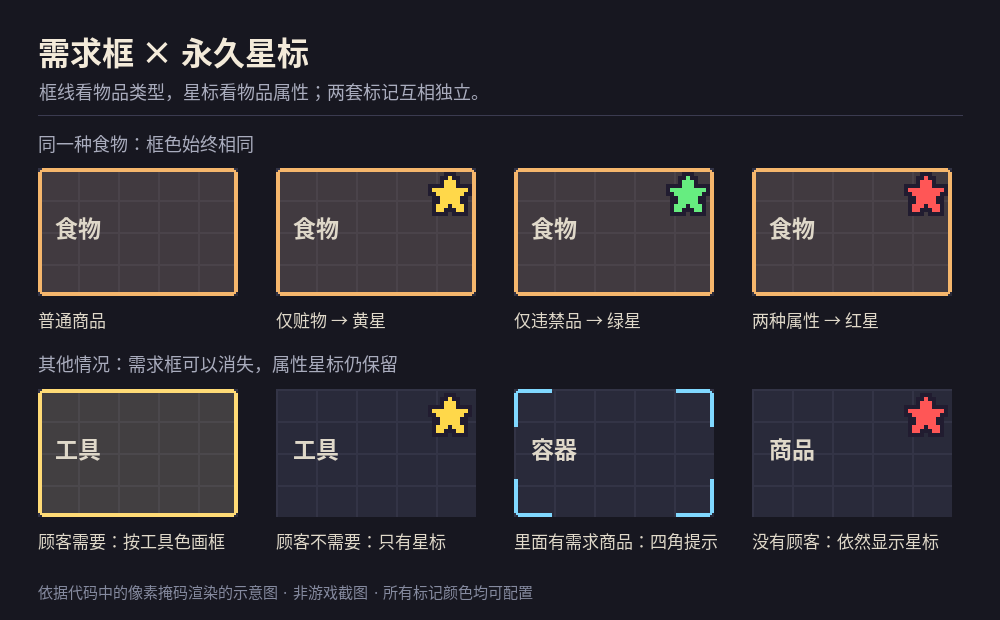
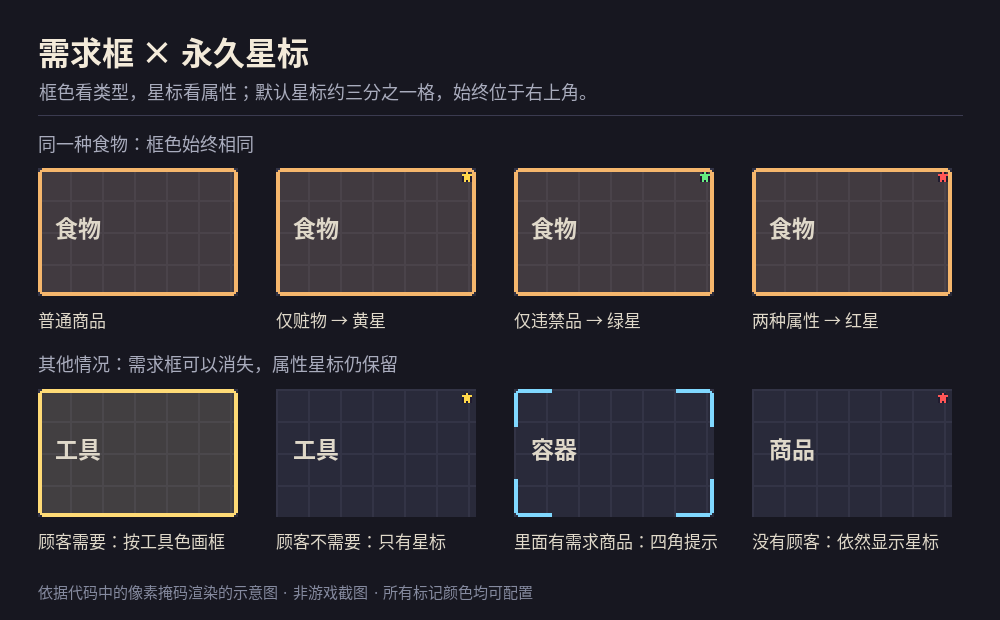
Fit risk stars to one grid cell and constrain priority settings width
Size badges at approximately one third of a grid cell by default, keep existing saved size levels, and fix the priority input's layout conflict with TMP. Add regression coverage and update configuration docs and the code-rendered preview for wrt.3.

diff --git a/tests/integration/IntegrationTest.cs b/tests/integration/IntegrationTest.cs
@@ -55,6 +55,15 @@ static class IntegrationTest
         mod.OnEnable();
         Check("constructor hooks installed", HarmonyLib.Harmony.Patches.ContainsKey(typeof(GameItemElement).GetConstructor(Type.EmptyTypes)));
         Check("no startup warnings", Debug.Warnings.Count == 0);
+        var priorityEntry = Entry<string>("typePriority");
+        var priorityField = ModConfigWindow.BuildTestEntry(ModHelper.Config, priorityEntry).root.GetComponent<LayoutElement>();
+        // TMP's content preference is thousands of pixels long. It must lose to the fixed-width entry.
+        float tmpPreference = MarkerSettings.DefaultPriority.Length * 8f;
+        float effectiveWidth = priorityField.layoutPriority > 1 ? priorityField.preferredWidth : Math.Max(tmpPreference, priorityField.preferredWidth);
+        Check("long priority input cannot squeeze its label", effectiveWidth == 245 && priorityField.minWidth == 245 && priorityField.flexibleWidth == 0);
+        Check("opening priority settings preserves the complete value", priorityEntry.Value == MarkerSettings.DefaultPriority);
+        Check("other settings keep native layout", ModConfigWindow.BuildTestEntry(ModHelper.Config, Entry<string>("stolenStarColor")).root.GetComponent<LayoutElement>().layoutPriority == 1);
+        Check("other mods keep native layout even with the same key", ModConfigWindow.BuildTestEntry(new ModConfig { ModId = "other_mod" }, priorityEntry).root.GetComponent<LayoutElement>().layoutPriority == 1);
 
         // None of these views is in a shop inventory. Even the shop singleton is absent.
         var locations = new[] { "warehouse", "front counter", "customer sale", "showcase", "container", "machine", "night scene", "other item UI" };
@@ -65,6 +74,16 @@ static class IntegrationTest
         for (int i = 0; i < locations.Length; i++)
             Check("global star with no shop/client: " + locations[i], Star(items[i]) != null && Star(items[i]).color == MarkerSettings.StolenColor);
         var target = items[0];
+        var starRect = (RectTransform)Child(target, "WRT.RiskStar").transform;
+        Check("existing default size level now fits one third of a 16px cell", starRect.sizeDelta.x == 5 && starRect.sizeDelta.y == 5);
+        Check("compact star keeps the top-right corner and configured inset", starRect.anchorMin.x == 1 && starRect.anchorMin.y == 1 && starRect.pivot.x == 1 && starRect.pivot.y == 1 && starRect.anchoredPosition.x == -2 && starRect.anchoredPosition.y == -2);
+        target.rectTransform.rect = new Rect(0,0,16,16); Step();
+        Check("smallest one-cell item keeps the compact star", starRect.sizeDelta.x == 5);
+        target.rectTransform.rect = new Rect(0,0,160,96); Step();
+        Check("large container does not enlarge the star", starRect.sizeDelta.x == 5);
+        UISettings.current.gridSize = 24; Step();
+        Check("star follows the game's grid size instead of item dimensions", starRect.sizeDelta.x == 8);
+        UISettings.current.gridSize = 16; Step();
         Check("badges do not intercept clicks", Star(target) != null && !Star(target).raycastTarget &&
             !Child(target, "WRT.RiskStar").transform.GetChild(0).gameObject.GetComponent<Image>().raycastTarget);
         Check("badges do not affect layout", Child(target, "WRT.RiskStar").GetComponent<LayoutElement>().ignoreLayout);
@@ -76,6 +95,7 @@ static class IntegrationTest
         dragged.ToggleFakeBackground(true, new Vector4(1f,1f,1f,0.5f)); Step();
         Check("whole-stack pickup hides the star at the old inventory position", Star(dragged) == null);
         Check("drag preview retains its own top-right star", DragStar(dragged) != null);
+        Check("drag preview uses the same compact dimensions", ((RectTransform)DragStar(dragged).transform.parent).sizeDelta.x == 5);
         Check("drag-preview star follows native opacity", DragStar(dragged).color.a == 0.5f);
         Check("drag-preview star does not intercept pointer input", !DragStar(dragged).raycastTarget);
         dragged.Contraband = true; dragged.Validate(); Step();
@@ -111,7 +131,7 @@ static class IntegrationTest
         Entry<string>("bothStarColor").Set("#12345680"); Step();
         Check("live-config star colour and opacity", Star(target).color == new Color(18 / 255f, 52 / 255f, 86 / 255f, 128 / 255f));
         Entry<int>("starPixelScale").Set(3); Step();
-        Check("live-config integer pixel scale", ((RectTransform)Child(target, "WRT.RiskStar").transform).sizeDelta.x == 33);
+        Check("live-config size level is relative to one cell", ((RectTransform)Child(target, "WRT.RiskStar").transform).sizeDelta.x == 8);
         Entry<bool>("riskStars").Set(false); Step();
         Check("dedicated stars setting hides badges", Star(target) == null);
         Entry<bool>("riskStars").Set(true); Step();
@@ -163,7 +183,7 @@ static class IntegrationTest
         Check("no unexpected runtime warnings", Debug.Warnings.Count == 0);
         if (args.Length == 2 && args[0] == "--preview-data")
         {
-            var data = new { side = Presentation.StarSide, fill = Array.ConvertAll(Presentation.StarMask(false), x => (int)x),
+            var data = new { side = Presentation.StarSide, grid = 16, starSize = Presentation.StarSize(16, 2), fill = Array.ConvertAll(Presentation.StarMask(false), x => (int)x),
                 edge = Array.ConvertAll(Presentation.StarMask(true), x => (int)x),
                 frame = Array.ConvertAll(Outline.Alpha(Shape.Full, 100, 64, new Style(Mark.Normal, false), 2, 3, true, 0), x => (int)x),
                 container = Array.ConvertAll(Outline.Alpha(Shape.Full, 100, 64, new Style(Mark.Normal, true), 2, 3, true, 0), x => (int)x) };

diff --git a/tests/integration/GameStubs.cs b/tests/integration/GameStubs.cs
@@ -153,7 +153,12 @@ namespace UnityEngine.UI
         public UnityEngine.Canvas canvas;
         public float pixelsPerUnitMultiplier;
     }
-    public class LayoutElement : UnityEngine.Component { public bool ignoreLayout; }
+    public class LayoutElement : UnityEngine.Component
+    {
+        public bool ignoreLayout;
+        public int layoutPriority = 1;
+        public float minWidth, preferredWidth, flexibleWidth;
+    }
 }
 namespace UnityEngine.SceneManagement
 {
@@ -174,17 +179,24 @@ namespace HarmonyLib
         public Harmony(string id) { }
         public void Patch(MethodBase target, HarmonyMethod prefix = null, HarmonyMethod postfix = null) { Patches[target] = postfix.Method; }
         public void UnpatchAll(string id) { Patches.Clear(); }
-        public static void Notify(MethodBase target, object instance)
+        public static void Notify(MethodBase target, object instance, params object[] originalArgs)
         {
             MethodInfo m; if (!Patches.TryGetValue(target, out m)) return;
             var args = new object[m.GetParameters().Length];
-            for (int i = 0; i < args.Length; i++) if (m.GetParameters()[i].Name == "__instance") args[i] = instance;
+            for (int i = 0; i < args.Length; i++)
+            {
+                string name = m.GetParameters()[i].Name;
+                int index;
+                if (name == "__instance") args[i] = instance;
+                else if (name.StartsWith("__") && int.TryParse(name.Substring(2), out index)) args[i] = originalArgs[index];
+            }
             m.Invoke(null, args);
         }
     }
 }
 
-public class ConfigEntry<T>
+public class ConfigEntry { public string Key; }
+public class ConfigEntry<T> : ConfigEntry
 {
     public T Value;
     public event Action<T> OnChanged;
@@ -192,13 +204,44 @@ public class ConfigEntry<T>
 }
 public class ModConfig
 {
+    public string ModId = DemandHighlight.DemandMod.ModId;
     public readonly Dictionary<string, object> Entries = new Dictionary<string, object>();
     public ConfigEntry<T> Define<T>(string key, T initial, string section, Func<string> label, Func<string> tooltip = null, bool restart = false)
     {
-        var entry = new ConfigEntry<T> { Value = initial }; Entries[key] = entry; return entry;
+        var entry = new ConfigEntry<T> { Key = key, Value = initial }; Entries[key] = entry; return entry;
     }
     public ConfigEntry<int> Define(string key, int initial, string section, Func<string> label, int min, int max,
         Func<string> tooltip = null, bool restart = false) { return Define<int>(key, initial, section, label, tooltip, restart); }
+}
+public class CustomUIElement
+{
+    public UnityEngine.GameObject root;
+    public CustomUIElement SetFixedWidth(float width)
+    {
+        var layout = root.GetComponent<UnityEngine.UI.LayoutElement>() ?? root.AddComponent<UnityEngine.UI.LayoutElement>();
+        layout.minWidth = layout.preferredWidth = width; layout.flexibleWidth = 0;
+        return this;
+    }
+}
+public class CustomUIBuilder { public CustomUIElement Last; }
+public static class ModConfigWindow
+{
+    // Mirrors the native BuildEntry's fixed width and the priority-1 conflict in the supplied game/TMP IL.
+    static void BuildEntry(CustomUIBuilder builder, ModConfig config, ConfigEntry entry)
+    {
+        builder.Last = new CustomUIElement { root = new UnityEngine.GameObject("input_" + entry.Key) };
+        builder.Last.SetFixedWidth(245);
+        HarmonyLib.Harmony.Notify(MethodBase.GetCurrentMethod(), null, builder, config, entry);
+    }
+    public static CustomUIElement BuildTestEntry(ModConfig config, ConfigEntry entry)
+    {
+        var builder = new CustomUIBuilder(); BuildEntry(builder, config, entry); return builder.Last;
+    }
+}
+public class UISettings : UnityEngine.MonoBehaviour
+{
+    public static UISettings current = new UISettings();
+    public int gridSize = 16;
 }
 public static class ModHelper
 {

diff --git a/src/DemandMod.cs b/src/DemandMod.cs
@@ -149,6 +149,9 @@ namespace DemandHighlight
                     else if (m.Name == "Hide") { h.Patch(m, null, window); hides++; }
                 }
                 if (shows == 0 || hides == 0) throw new MissingMethodException("PixelWindow.Show/Hide not found");
+                Patch(h, typeof(ModConfigWindow).GetMethod("BuildEntry", AnyStatic, null,
+                    new[] { typeof(CustomUIBuilder), typeof(ModConfig), typeof(ConfigEntry) }, null),
+                    "ModConfigWindow.BuildEntry", Hook("SettingsEntryBuilt"));
             }
             if (ticker == null)
             {
@@ -225,6 +228,17 @@ namespace DemandHighlight
         static void ElementCreated(GameItemElement __instance) { RiskStars.Track(__instance); }
         static void ElementDestroyed(GameItemElement __instance) { RiskStars.Remove(__instance); dirty = true; }
         static void ElementChanged(GameItemElement __instance) { RiskStars.Track(__instance); dirty = true; }
+
+        // Only our long priority field: TMP_InputField reports the entire value's preferred width at priority 1,
+        // tying the native fixed-width LayoutElement. Unity then takes the larger width and crushes the label.
+        static void SettingsEntryBuilt(CustomUIBuilder __0, ModConfig __1, ConfigEntry __2)
+        {
+            if (__1 == null || __1.ModId != modId || __2 == null || __2.Key != "typePriority") return;
+            var widget = __0.Last;
+            if (widget == null || widget.root == null) return;
+            widget.SetFixedWidth(245f);
+            widget.root.GetComponent<UnityEngine.UI.LayoutElement>().layoutPriority = 2;
+        }
 
         // An item changed: what is kept about it, and the insides of the containers above it, are stale.
         static void ItemChanged(GameItem __instance)

diff --git a/tools/preview/render.py b/tools/preview/render.py
@@ -18,7 +18,7 @@ if not Path(font).exists():
 def text(x,y,s,size=18,color='#DAD7E4',heavy=False):
     p.text((x,y),s,font=ImageFont.truetype(bold if heavy else font,size),fill=color)
 text(38,27,'需求框 × 永久星标',32,'#F3EAD9',True)
-text(39,78,'框线看物品类型，星标看物品属性；两套标记互相独立。',18,'#A9ACBD')
+text(39,78,'框色看类型，星标看属性；默认星标约三分之一格，始终位于右上角。',18,'#A9ACBD')
 p.line((38,115,962,115),fill='#3B3B50',width=1)
 xs=[38,276,514,752]
 def mask_layer(alpha,w,h,color,bottom_up=False):
@@ -30,12 +30,12 @@ def mask_layer(alpha,w,h,color,bottom_up=False):
 def card(x,y,title,kind,color=None,risk=None,container=False):
     # 100x64 logical UI units, at exactly 2x for a crisp, inspectable schematic.
     tile=Image.new('RGBA',(100,64),'#292A3A');q=ImageDraw.Draw(tile)
-    for xx in range(0,101,20):q.line((xx,0,xx,64),fill='#333446')
-    for yy in range(0,65,16):q.line((0,yy,100,yy),fill='#333446')
+    for xx in range(0,101,D['grid']):q.line((xx,0,xx,64),fill='#333446')
+    for yy in range(0,65,D['grid']):q.line((0,yy,100,yy),fill='#333446')
     if color:
         tile.alpha_composite(mask_layer(D['container'] if container else D['frame'],100,64,color,True))
     if risk:
-        side=D['side'];n=side*2
+        side=D['side'];n=D['starSize']
         for key,c in [('edge','#211C30'),('fill',risk)]:
             star=mask_layer(D[key],side,side,c).resize((n,n),Image.Resampling.NEAREST)
             tile.alpha_composite(star,(100-n-2,2))

diff --git a/src/MarkerSettings.cs b/src/MarkerSettings.cs
@@ -42,13 +42,15 @@ namespace DemandHighlight
             var enabled = config.Define("riskStars", true, "Risk stars / 属性星标", () => L("opt_stars"));
             StarsEnabled = enabled.Value;
             enabled.OnChanged += v => { StarsEnabled = v; Touch(); };
-            var scale = config.Define("starPixelScale", 2, "Risk stars / 属性星标", () => L("opt_star_scale"), 1, 4);
+            var scale = config.Define("starPixelScale", 2, "Risk stars / 属性星标", () => L("opt_star_scale"), 1, 4,
+                tooltip: () => L("opt_star_size_tip"));
             StarScale = scale.Value;
             scale.OnChanged += v => { StarScale = v; Touch(); };
             var inset = config.Define("starInset", 2, "Risk stars / 属性星标", () => L("opt_star_inset"), 0, 16);
             StarInset = inset.Value;
             inset.OnChanged += v => { StarInset = v; Touch(); };
-            var order = config.Define("typePriority", DefaultPriority, "Outline colors / 框线颜色", () => L("opt_type_priority"));
+            var order = config.Define("typePriority", DefaultPriority, "Outline colors / 框线颜色", () => L("opt_type_priority"),
+                tooltip: () => L("opt_type_priority_tip"));
             ReadPriority(order.Value);
             order.OnChanged += v => { ReadPriority(v); Touch(); };
             foreach (var type in Panel.KnownTypes()) EnsureType(type);

diff --git a/tests/PresentationTest.cs b/tests/PresentationTest.cs
@@ -47,7 +47,13 @@ static class PresentationTest
         Check("bad hex rejected", !MarkerColor.TryParse("#GG0000", out color));
         Check("short hex rejected", !MarkerColor.TryParse("#FF0", out color));
         Check("null hex rejected", !MarkerColor.TryParse(null, out color));
+        Check("default star occupies about a third of one cell", Presentation.StarSize(16, 2) == 5);
+        Check("size levels stay compact", Presentation.StarSize(16, 1) == 3 && Presentation.StarSize(16, 3) == 8 && Presentation.StarSize(16, 4) == 11);
+        Check("size adapts to a different game grid", Presentation.StarSize(24, 2) == 8 && Presentation.StarSize(32, 2) == 11);
+        Check("missing grid uses native 16px default", Presentation.StarSize(0, 2) == 5);
+        Check("invalid size levels clamp safely", Presentation.StarSize(16, -1) == 3 && Presentation.StarSize(16, 99) == 11);
         var fill = Presentation.StarMask(false);
+        Check("compact point sampling retains both horizontal star tips", fill[3 * Presentation.StarSide + 1] == 255 && fill[3 * Presentation.StarSide + 9] == 255);
         var edge = Presentation.StarMask(true);
         int n = Presentation.StarSide, filled = 0, outlined = 0;
         bool symmetric = true, disjoint = true, padding = true;

diff --git a/src/Presentation.Pure.cs b/src/Presentation.Pure.cs
@@ -73,11 +73,21 @@ namespace DemandHighlight
             return best;
         }
 
+        // Level 2 stays close to one third of a single cell, independently of the item's footprint.
+        // Keep the saved 1..4 setting from wrt.2, but shrink its interpretation for existing installations too.
+        public static int StarSize(int gridSize, int level)
+        {
+            if (gridSize <= 0) gridSize = 16;
+            level = Math.Max(1, Math.Min(4, level));
+            return Math.Max(1, (int)Math.Round(gridSize * level / 6.0, MidpointRounding.AwayFromZero));
+        }
+
         // White alpha masks, including one pixel of transparent padding for a configurable dark outline.
         // A tiny five-point star, not a font glyph (which may be absent in some game languages).
         public const int StarSide = 11;
         static readonly string[] StarRows = {
-            "....#....", "...###...", "...###...", "#########", ".#######.",
+            // Two rows of horizontal arms keep the five-point silhouette when point-sampled to 5 UI pixels.
+            "....#....", "...###...", "#########", "#########", ".#######.",
             "..#####..", "..#####..", ".###.###.", ".##...##."
         };
 

diff --git a/tools/GameCheck/Program.cs b/tools/GameCheck/Program.cs
@@ -53,6 +53,10 @@ static class Program
             if (methods.Length == 0) throw new MissingMethodException("PixelWindow", name);
             targets += methods.Length;
         }
+        var buildEntry = typeof(ModConfigWindow).GetMethod("BuildEntry", BindingFlags.Static | BindingFlags.Public | BindingFlags.NonPublic,
+            null, new[] { typeof(CustomUIBuilder), typeof(ModConfig), typeof(ConfigEntry) }, null);
+        if (buildEntry == null) throw new MissingMethodException("ModConfigWindow", "BuildEntry");
+        targets++; Console.WriteLine("TARGET " + buildEntry);
         Console.WriteLine("API targets verified: " + targets);
         var dlls = System.IO.Directory.GetFiles(modFolder, "*.dll");
         if (dlls.Length != 1 || Path.GetFileName(dlls[0]) != "TypeDemandStars.dll")

diff --git a/src/RiskStars.cs b/src/RiskStars.cs
@@ -135,7 +135,9 @@ namespace DemandHighlight
             badge.Rect.SetAsLastSibling();
             badge.Rect.localRotation = Quaternion.identity;
             badge.Rect.localScale = Vector3.one;
-            float side = Presentation.StarSide * Mathf.Clamp(MarkerSettings.StarScale, 1, 4);
+            var ui = UISettings.current;
+            float side = Presentation.StarSize(ui != null ? ui.gridSize : 16, MarkerSettings.StarScale);
+            side = Math.Min(side, Math.Min(anchor.rect.width, anchor.rect.height));
             badge.Rect.sizeDelta = new Vector2(side, side);
             badge.Rect.anchoredPosition = new Vector2(-MarkerSettings.StarInset, -MarkerSettings.StarInset);
             var fill = MarkerSettings.Star(risk); fill.a *= opacity;

diff --git a/VALIDATION.md b/VALIDATION.md
@@ -9,17 +9,20 @@ Assembly-CSharp SHA-256: `725cb999d019dff1ff31bed353c7f9bb8d81a7605a15de1f80f5a3
 
 - Production mod compiled against the supplied real game assemblies: zero warnings/errors.
 - Optional query sample compiled against those same assemblies: zero warnings/errors.
-- Real-assembly preflight confirmed 20 API targets, including constructors, destruction and native drag-visibility hooks.
-- The supplied game's own `ModScanner.Scan` scanned 514 methods: no refusal, no error, no capabilities and no hard flags.
-- Twelve pure-data test suites: 364 checks passed.
-- Production-code integration against explicitly labelled stand-in game/Unity APIs: 45 checks passed.
+- Real-assembly preflight confirmed 21 API targets, including constructors, destruction and native drag-visibility hooks.
+- The supplied game's own `ModScanner.Scan` scanned 518 methods: no refusal, no error, no capabilities and no hard flags.
+- Twelve pure-data test suites: 370 checks passed.
+- Production-code integration against explicitly labelled stand-in game/Unity APIs: 55 checks passed.
+- Size/layout regressions cover one-cell items, large containers, grid-size changes, drag previews, top-right placement, the long priority field and isolation from other mods/settings.
 - Drag regressions cover whole-stack pickup, partial stacks, drag opacity, combined status, settings, drop and destruction cleanup.
 - Documentation links, 15 configuration keys, project/manifest XML, shell syntax and `git diff --check` passed.
 - The installable package contains only this mod's DLL, localization, manifest, notices, preview and installation/build information. No uploaded game assemblies, test stand-ins or development tools are distributed.
 
-## Still requires actual gameplay
+## Player feedback and remaining gameplay checks
 
-- Execution of real Harmony patches within the Unity game.
+Player screenshots from wrt.2 confirm stars rendering in the running game and exposed oversized badges and a stretched priority input. wrt.3 addresses these two regressions; the new size and settings layout still need confirmation in the running game.
+
+- Execution of the new settings-layout Harmony hook within Unity.
 - Visual layout, scaling, clipping, rotation and mirroring in the running game.
 - Integration with third-party item UIs that bypass native GameItemElement views.
 

diff --git a/doc/installation.md b/doc/installation.md
@@ -1,6 +1,6 @@
 # Type Demand & Risk Stars — 安装测试包
 
-版本：1.0.0-wrt.2。已使用提供的真实程序集完成编译、API 签名检查及游戏自带扫描；游戏内视觉效果尚待实测。
+版本：1.0.0-wrt.3。已使用提供的真实程序集完成编译、API 签名检查及游戏自带扫描；游戏内视觉效果尚待实测。
 
 1. 将压缩包中的 `wrt_type_demand_stars` 文件夹放入游戏根目录的 `Mods` 文件夹。
 2. 停用原 Demand Highlight、Client Demand Highlight 和其他重复画框或星标的 Mod。
@@ -8,6 +8,8 @@
 4. 进入存档后，需求框和属性星标默认开启，无需先绑定快捷键。
 
 主菜单 → Mods → 本模组齿轮按钮可配置颜色、圆角、粗细、底色及星标大小。颜色填写 `#RRGGBB` 或 `#RRGGBBAA`。需求框开关与筛选窗口快捷键在游戏按键设置中绑定；关闭需求框不会关闭星标。
+
+从 wrt.2 更新时直接替换安装文件夹，保留现有配置即可。星标大小的旧设置会自动采用新尺寸，无需恢复默认；默认等级 2 约为三分之一格，固定在右上角。
 
 默认星标：仅赃物黄星，仅违禁品绿星，两种属性同时存在为一颗红星。普通和拖拽视图分别标记；容器不继承内容物的星标属性。
 
@@ -22,3 +24,5 @@ Outlines and permanent risk stars are enabled by default. Configure colors and g
 Yellow means stolen only, green contraband only, red both. Native drag previews are supported. The container's star describes the container itself.
 
 Real-assembly compilation, API checks and the game's scanner passed; actual in-game appearance and behavior still require player testing. No game assemblies or test stand-ins are included.
+
+Updating from wrt.2: replace the mod folder and keep your configuration. Existing size levels become compact automatically. Default level 2 is about one third of a single cell, independent of the item footprint.

diff --git a/doc/manual/configuration.md b/doc/manual/configuration.md
@@ -20,11 +20,15 @@ Enable the mod and open its gear button in **main menu → Mods**. The game gene
 | `contrabandStarColor` | `#66ED80` | Contraband only |
 | `bothStarColor` | `#FF5656` | Both statuses on one item |
 | `starOutlineColor` | `#211C30` | Pixel-star edge |
-| `starPixelScale` | `2` | Integer scale, 1–4; complete mask is 11×11 pixels before scaling |
+| `starPixelScale` | `2` | Size levels 1–4: approximately 1/6, 1/3, 1/2 and 2/3 of one cell, rounded to UI pixels |
 | `starInset` | `2` | Inset from the view's top-right corner, 0–16 UI pixels |
 | `filterNumbers` | `true` | Item Filter statistics |
 
 Both **Toggle demand highlight** and **Open item filter** are unbound by default and belong in the game's key bindings. They are separate from the persisted marker-color entries. The old conditional `highlightClientGoods` option is replaced by the global permanent star layer.
+
+Star dimensions follow the game's single-cell size, independently of item/container dimensions. At the default 16 UI pixels per cell, level 2 is 5×5 UI pixels including the edge. Stars stay at the top right. The legacy `starPixelScale` key and saved values are retained; updating automatically makes existing configurations compact.
+
+The color-priority input has the same fixed width as other text settings. Long values scroll inside the field; format instructions are in its tooltip.
 
 ## Type colors
 
